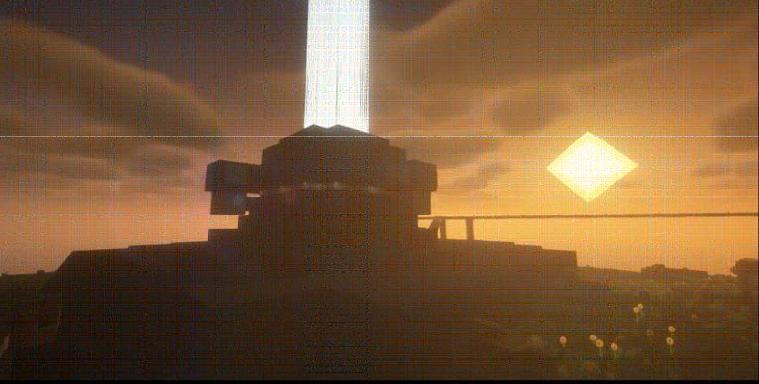
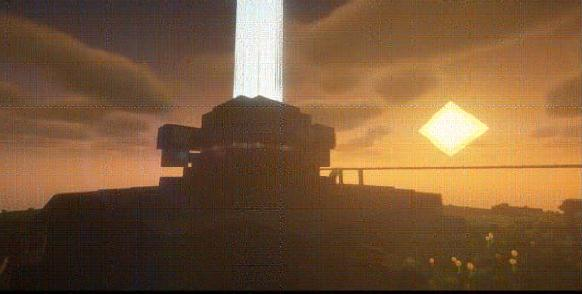
fix white line

diff --git a/config.py b/config.py
@@ -5,8 +5,8 @@ BLOCK_SIZE = 16
 GRID_WIDTH = 4
 RULER_SIZE = 32
 
-BLACK_THRESHOLD = 127
-WHITE_THRESHOLD = 128
+BLACK_THRESHOLD = 180
+WHITE_THRESHOLD = 181
 
 assert BLACK_THRESHOLD < WHITE_THRESHOLD, "Black threshold should be less than white threshold"
 

diff --git a/README.md b/README.md
@@ -22,5 +22,3 @@ python __main__.py
 ![](example/compressed.jpg) → ![](example/final.jpg)
 
 我们发现只是因为强行打破像素连续性，导致压缩后出现了噪点。这可以通过加粗网格，增加缓冲避免。
-
-图上的白线可以通过调整阈值消除。
